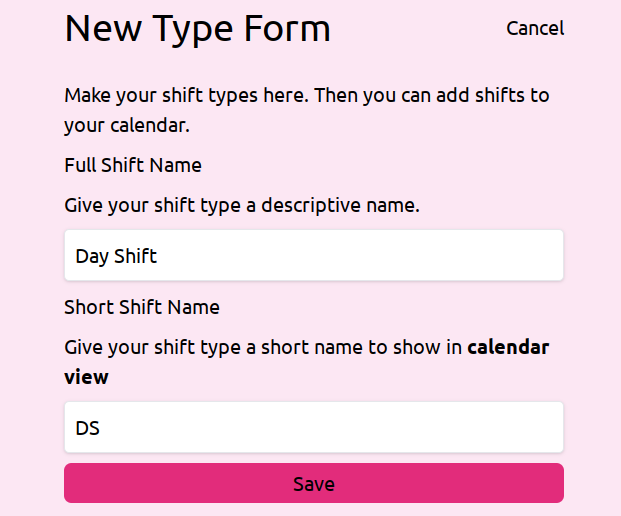
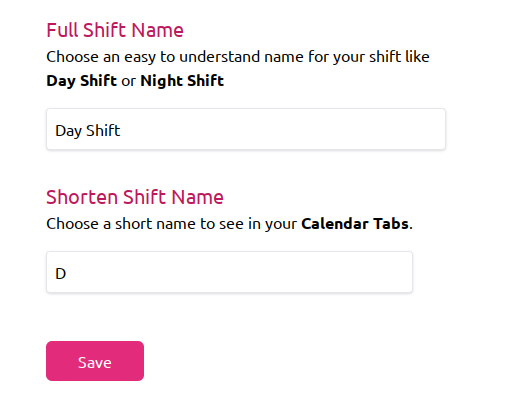
update new shift type form styles for web homepage image

diff --git a/templates/profile/shift-type-form.html b/templates/profile/shift-type-form.html
@@ -1,11 +1,11 @@
 {% from "macros/spinner.html" import spinner %}
 <form id="type-form"
-	  class="max-w-[400px] mx-auto min-h-[400px] flex flex-col gap-2 rounded-md dark:bg-gray-800"
+	  class="max-w-[400px] mx-auto min-h-[400px] flex flex-col items-start gap-2 rounded-md dark:bg-gray-800"
 	  hx-post="/shift-types/new"
 	  hx-target="#type-form"
 	  hx-swap="outerHTML">
-	<div class="flex justify-between mb-4">
-		<h3 class="text-3xl">New Type Form</h3>
+	<div class="w-full flex justify-between items-baseline mb-4">
+		<h3 class="text-3xl text-pink-700">New Shift</h3>
 		<button hx-get="/shift-types"
 				hx-target="#type-form"
 				hx-swap="outerHTML"
@@ -15,10 +15,10 @@
 		Make your shift types here. Then you can add shifts to your
 		calendar.
 	</p>
-	<div class="flex flex-col gap-2">
+	<div class="flex flex-col mb-6">
 		<label for="long_name"
-			   class="dark:text-gray-100">Full Shift Name</label>
-		<span>Give your shift type a descriptive name.</span>
+			   class="text-xl text-pink-700">Full Shift Name</label>
+		<span class="mb-4">Choose an easy to understand name for your shift like <strong>Day Shift</strong> or <strong>Night Shift</strong></span>
 		<input type="text"
 			   id="long_name"
 			   name="long_name"
@@ -26,10 +26,12 @@
 			   placeholder="Choose name for shift type..."
 			   class="border p-2 shadow rounded dark:bg-gray-800 dark:text-gray-100" />
 	</div>
-	<div class="flex flex-col gap-2">
+	<div class="flex flex-col mb-10">
 		<label for="short_name"
-			   class="dark:text-gray-100">Short Shift Name</label>
-		<span>Give your shift type a short name to show in <strong>calendar view</strong></span>
+			   class="text-xl text-pink-700">Shorten Shift Name</label>
+		<span class="mb-4">
+			Choose a short name to see in your <strong>Calendar Tabs</strong>.
+		</span>
 		<input type="text"
 			   id="short_name"
 			   name="short_name"
@@ -38,7 +40,7 @@
 			   class="border p-2 shadow rounded dark:bg-gray-800 dark:text-gray-100" />
 	</div>
 	<button type="submit"
-			class="flex gap-2 justify-center items-center bg-[#E22C7B] px-3 py-1 rounded-md grow-0">
+			class="flex gap-2 justify-center items-center bg-[#E22C7B] px-8 py-2 rounded-md grow-0 text-white">
 		Save
 		{{spinner('h-10', 'h-10', 'text-black')}}
 	</button>

diff --git a/templates/profile/sections/shift-type-section.html b/templates/profile/sections/shift-type-section.html
@@ -1,11 +1,11 @@
 {% from "macros/spinner.html" import spinner %}
 <section id="types"
 		 class="bg-white dark:bg-gray-900 dark:text-gray-100">
-	<div class="mx-auto md:rounded-md p-4 bg-pink-100 dark:bg-gray-800">
+	<div class="bg-pink-100 mx-auto md:rounded-md p-4">
 		{% block shift_type_list %}
 		<div id="type-list"
 			 class="max-w-[400px] mx-auto min-h-[400px]">
-			<div class="flex justify-between mb-4">
+			<div class="flex justify-between items-baseline mb-4">
 				<h2 class="text-3xl">Shift Types</h2>
 				<button hx-get="/shift-types/new"
 						hx-target="#type-list"

diff --git a/templates/ui/header.html b/templates/ui/header.html
@@ -12,7 +12,7 @@
 </header>
 {% else %}
 <header x-data="{ mobilenavOpen: false }"
-		class="md:flex items-center justify-between dark:bg-gray-900 dark:text-gray-100 px-4 bg-white">
+		class="md:flex items-center justify-between dark:bg-gray-900 dark:text-gray-100 px-4 bg-white bg-gradient-to-r from-pink-500 to-pink-600 text-white">
 	<div class="flex items-center justify-between h-20">
 		<span class="text-3xl">Ennytime</span>
 		{# mobile icon #}
